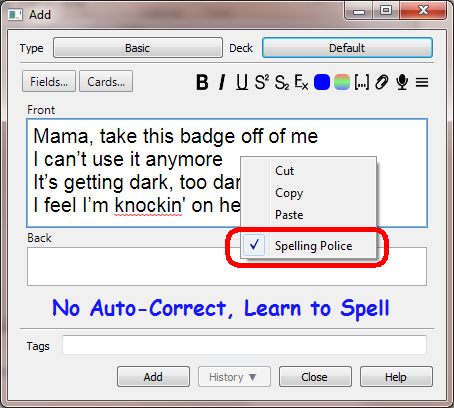
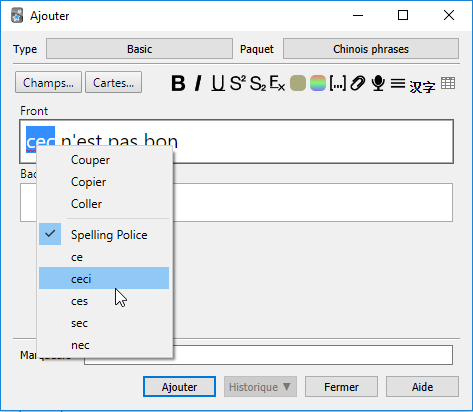
Add word suggestion list

diff --git a/src/spelling_police/spellpopo.py b/src/spelling_police/spellpopo.py
@@ -26,16 +26,24 @@ from aqt.qt import *
 from aqt.webview import AnkiWebView
 from anki.hooks import wrap, addHook
 from anki.lang import _
+from functools import partial
 
+def replaceMisspelledWord(page, sug_word):
+    page.replaceMisspelledWord(sug_word)
 
 def onContextMenuEvent(editor, menu):
     p=editor._page.profile()
+    data=editor._page.contextMenuData()
     b=p.isSpellCheckEnabled()
     menu.addSeparator()
     a=menu.addAction(_("Spelling Police"))
     a.setCheckable(True)
     a.setChecked(b)
     a.triggered.connect(lambda:p.setSpellCheckEnabled(not b))
+    if b:
+        for sug_word in data.spellCheckerSuggestions():
+            a=menu.addAction(_(sug_word))
+            a.triggered.connect(partial(replaceMisspelledWord, editor._page, sug_word))
 
 addHook("EditorWebView.contextMenuEvent", onContextMenuEvent)
 
